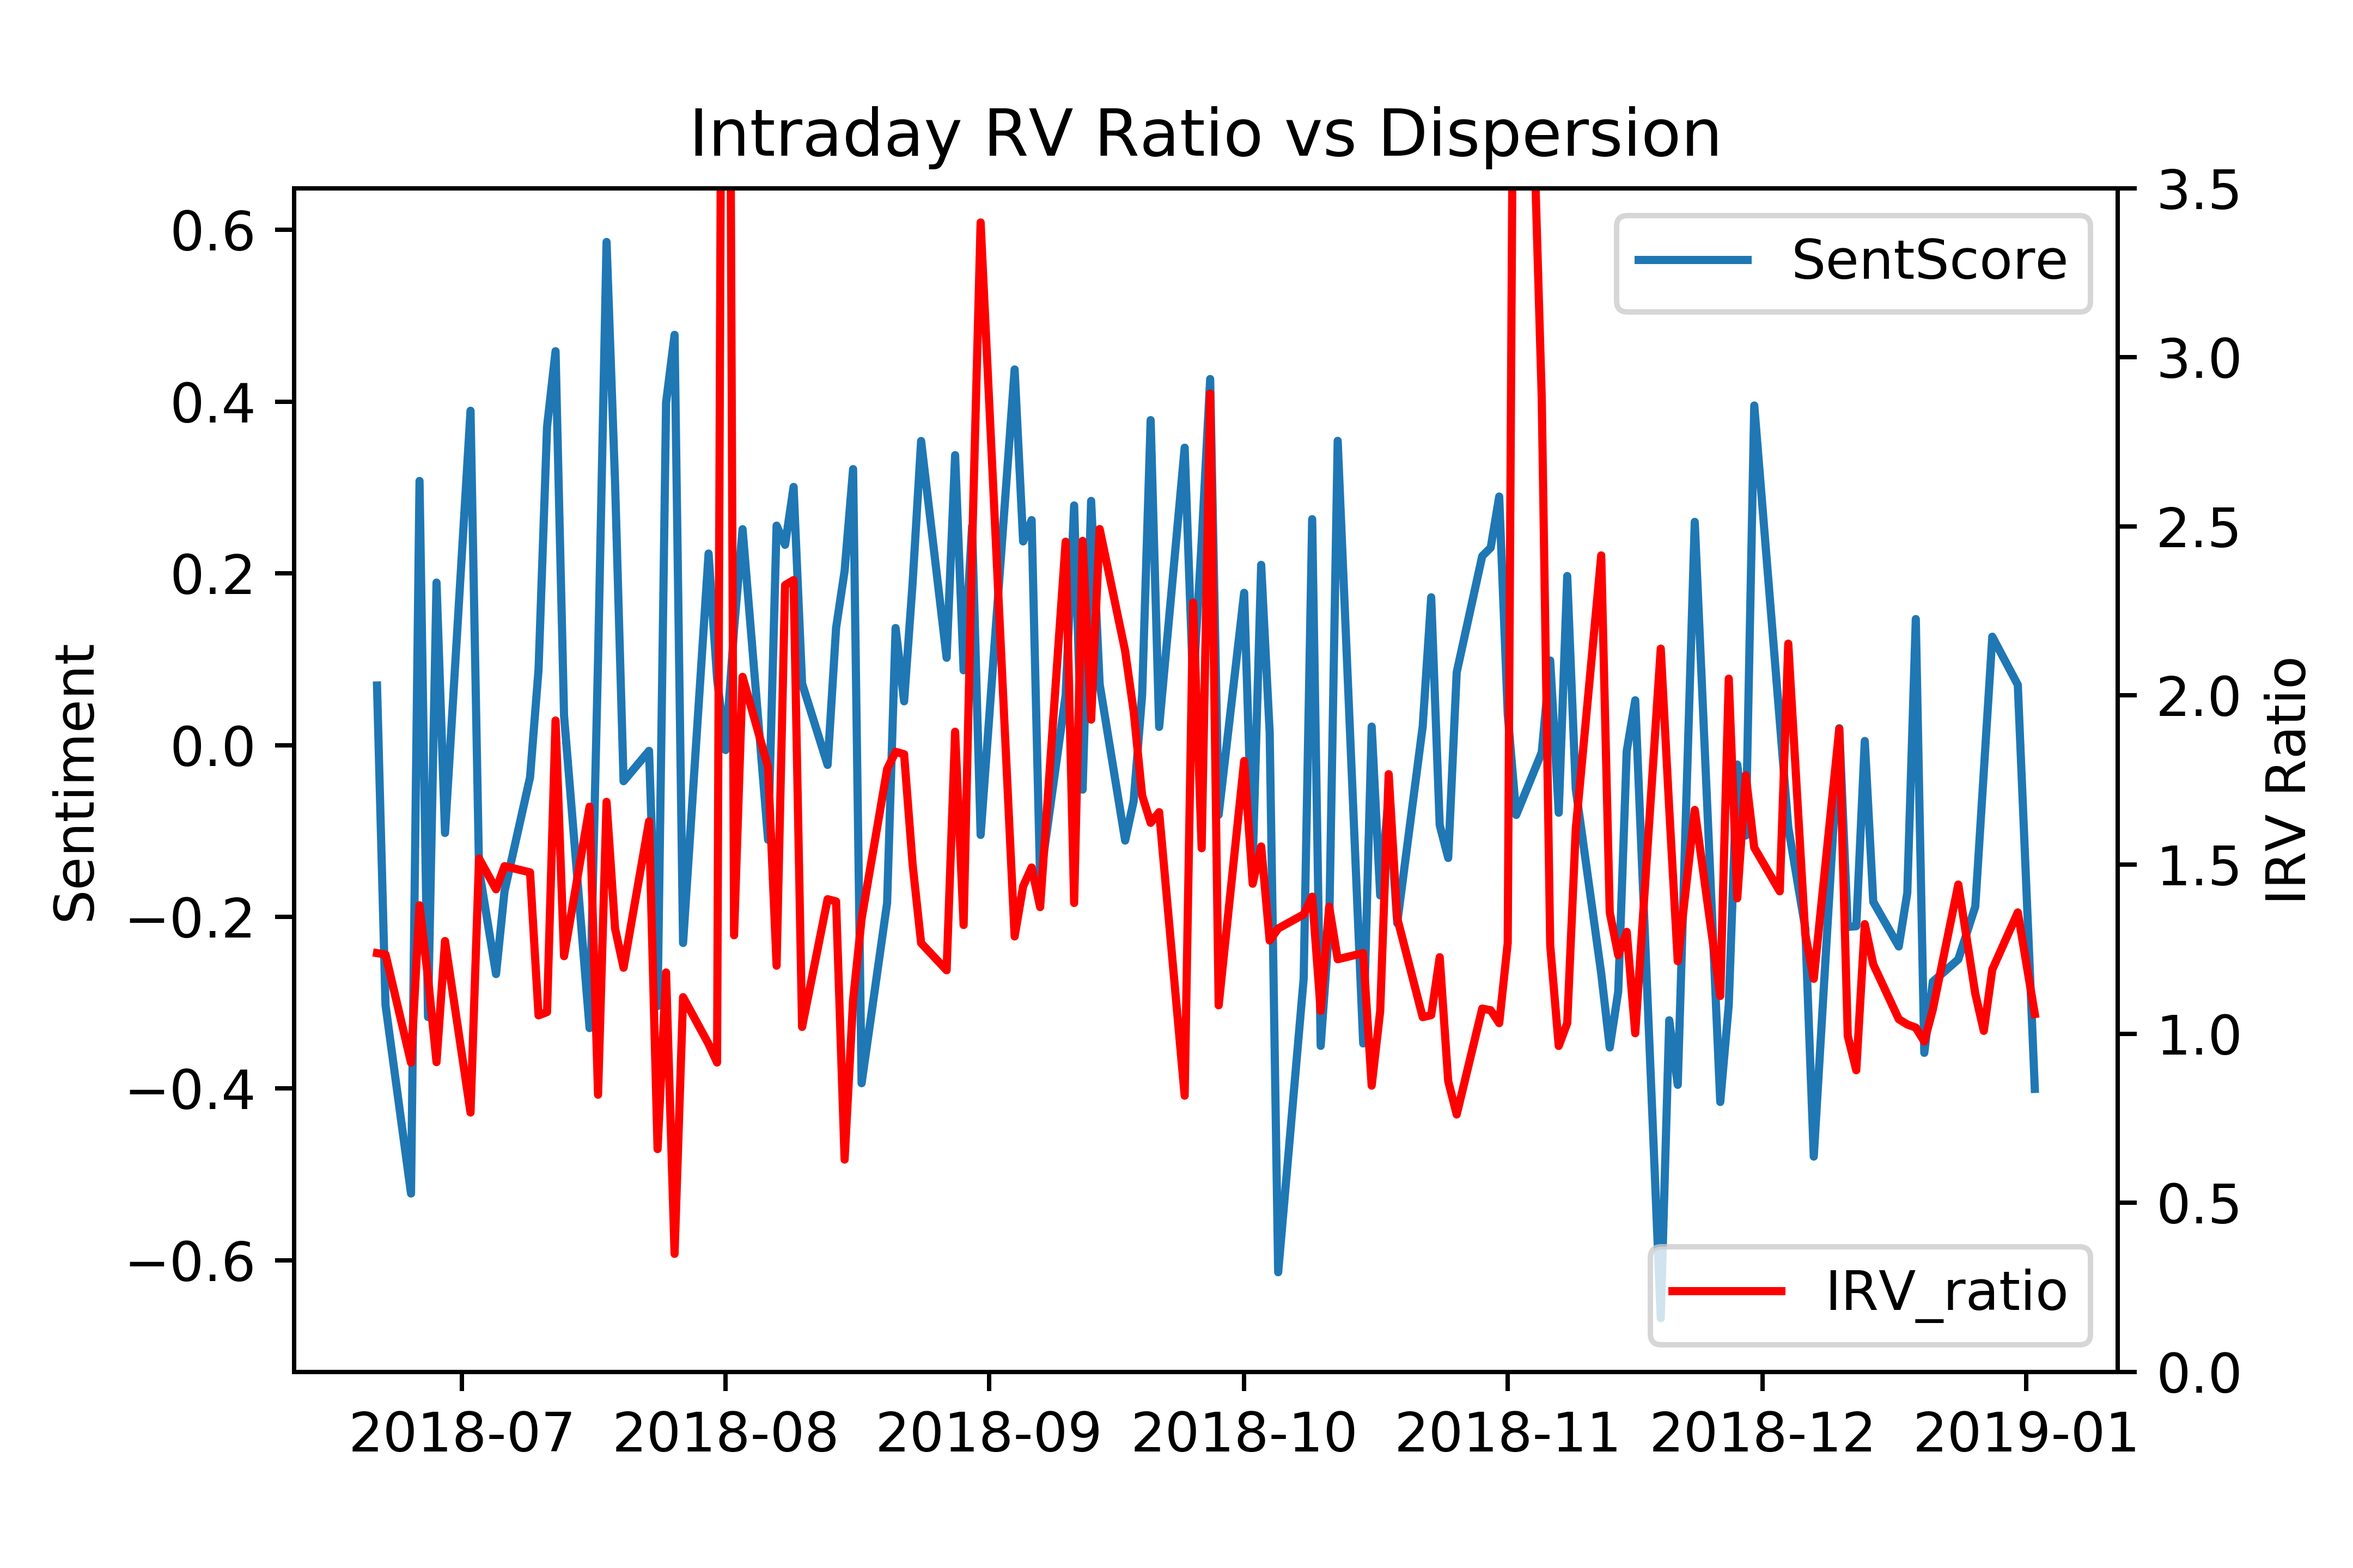
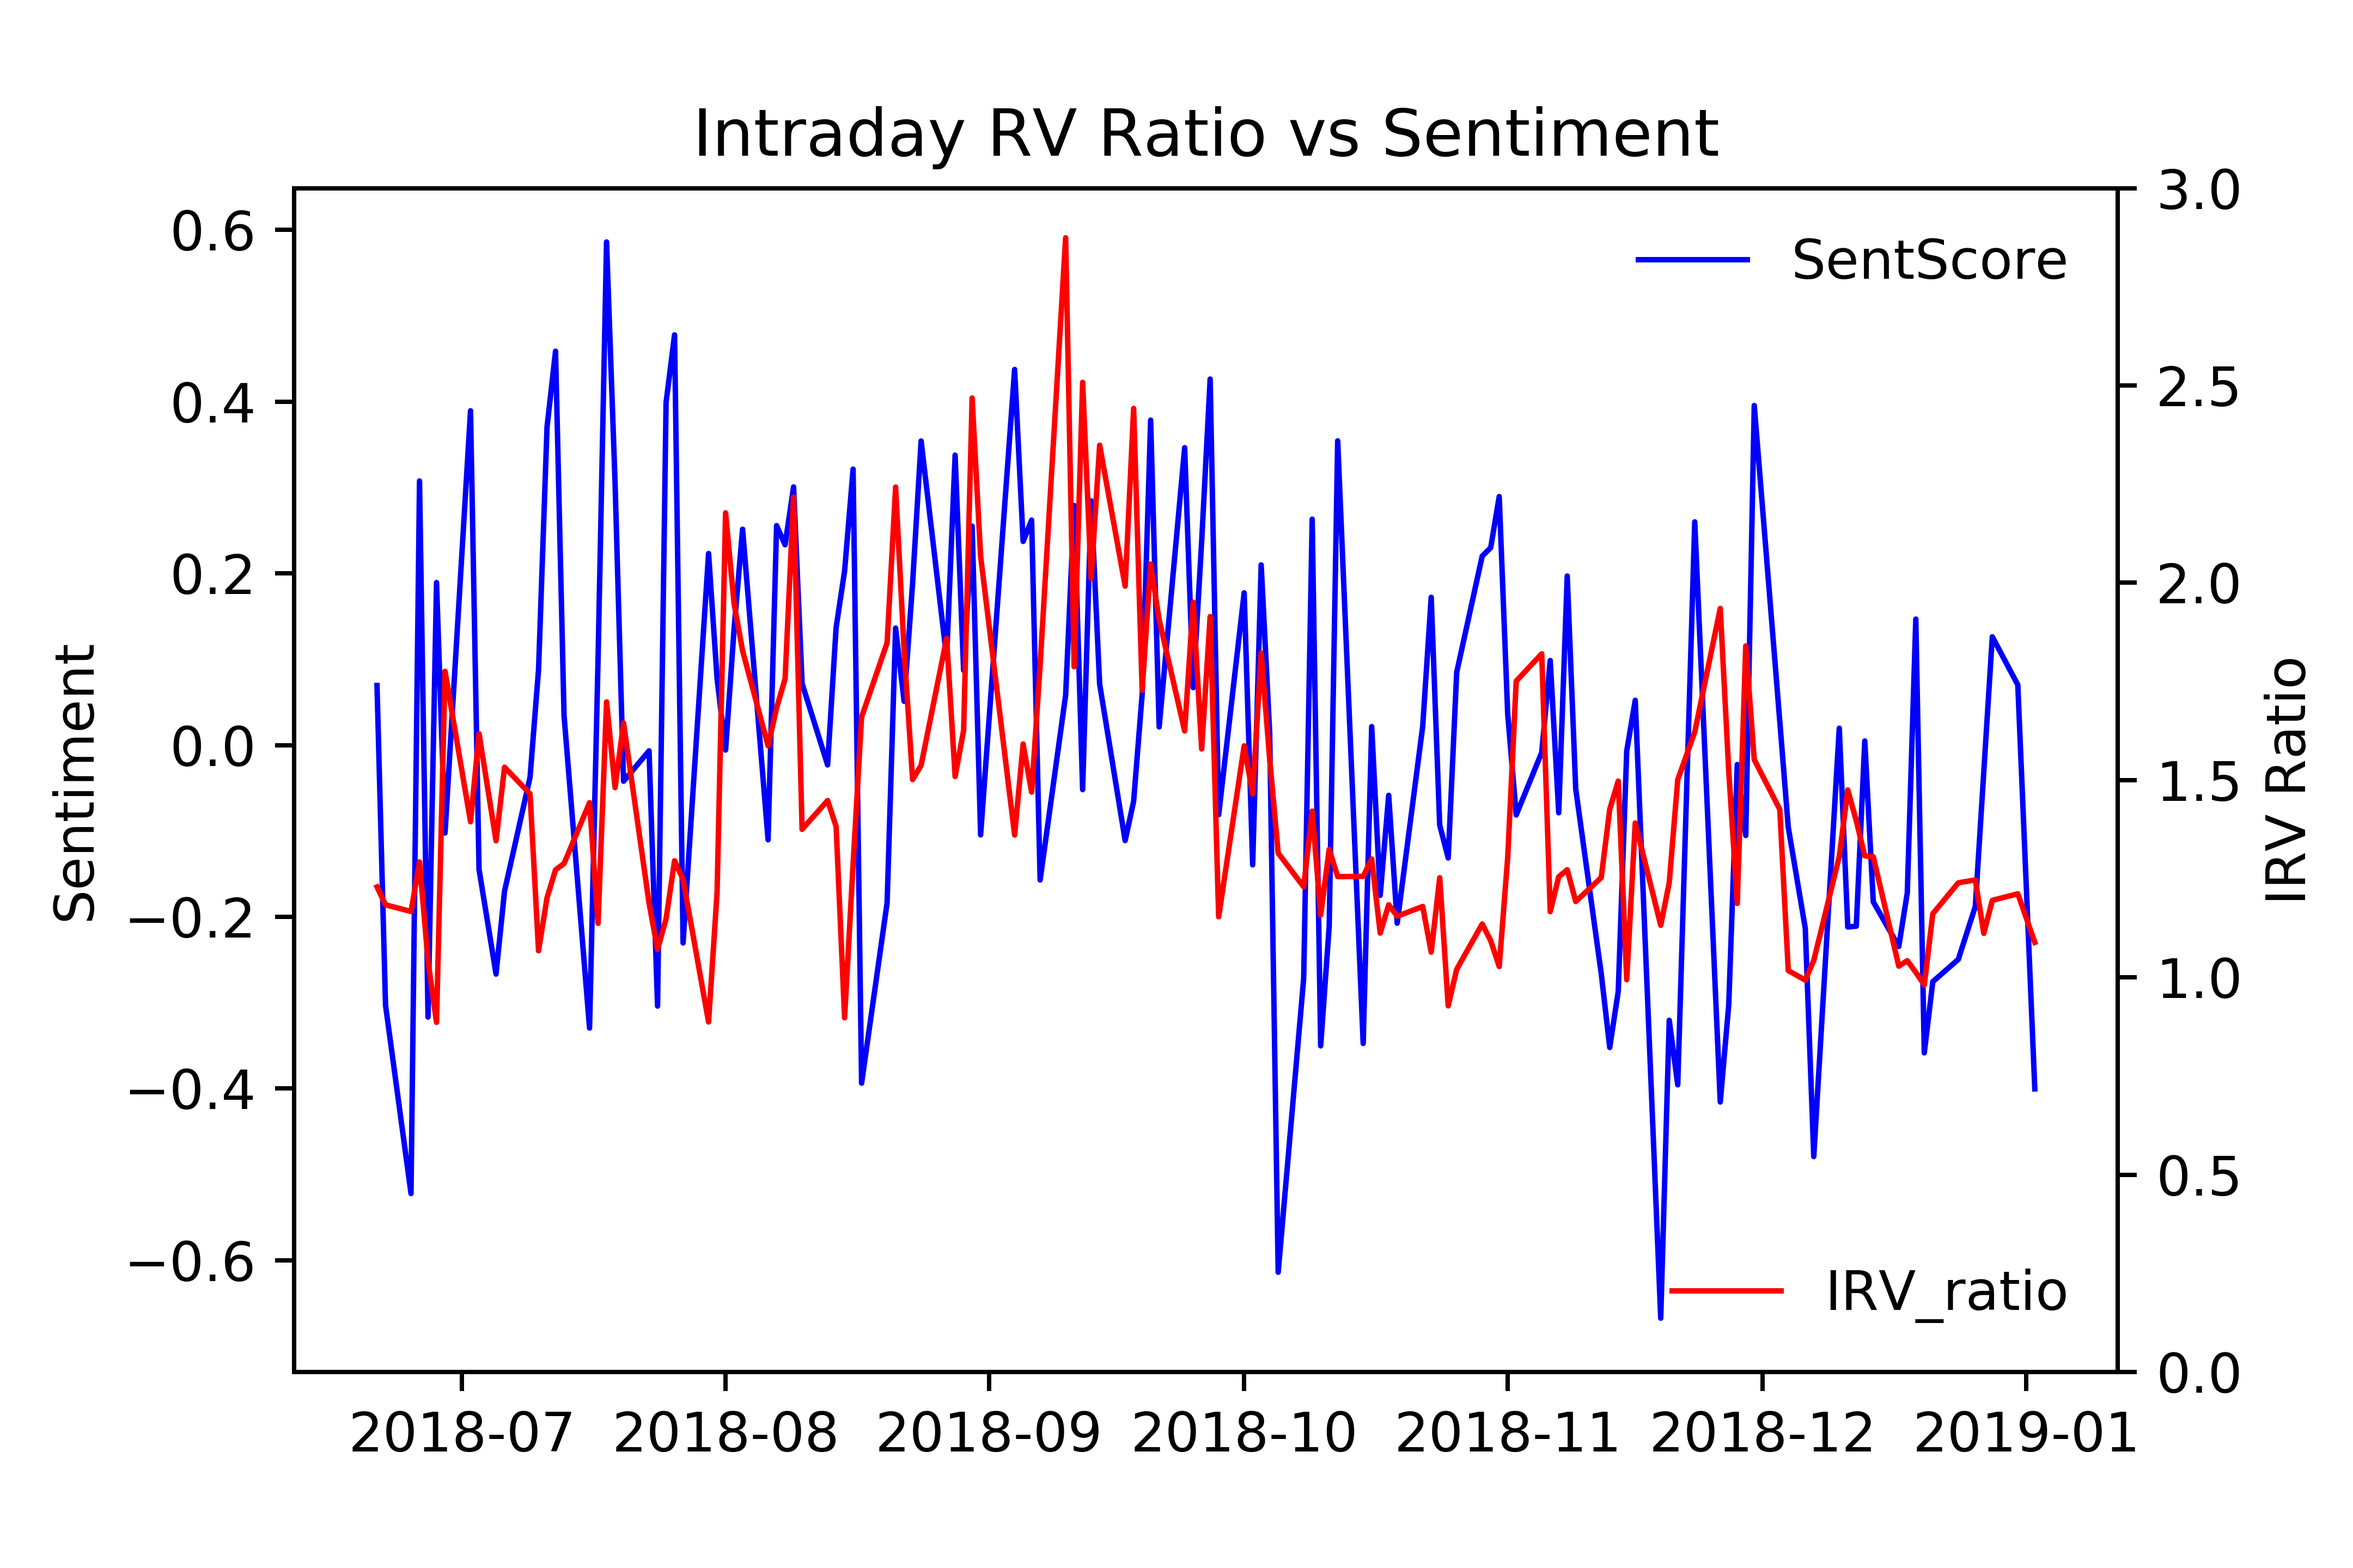
Add files via upload

diff --git a/Sentiment Analysis and Realised Volatility Analysis.py b/Sentiment Analysis and Realised Volatility Analysis.py
@@ -252,10 +252,10 @@ NDX_agg = pd.concat([NDX_agg, pd.DataFrame(columns = ['IntradayRV']),pd.DataFram
 for i in range(len(NDX_agg)):
    temp_RV=0
    temp_num=0
-   for j in range(len(NDX)):
-       if NDX_agg.Date[i]==NDX.Date[j]:
-           temp_RV=temp_RV+NDX.log_r[j]
-           temp_num=temp_num+1
+   for j in range(1,len(NDX)):
+       if NDX_agg.Date[i]==NDX.Date[j] and NDX.Date[j]==NDX.Date[j-1]:
+               temp_RV=temp_RV+NDX.log_r[j]
+               temp_num=temp_num+1
    NDX_agg.IntradayRV[i]= np.sqrt(temp_RV/temp_num * 87 * 252) 
    NDX_agg.Frequency[i]=temp_num  
 
@@ -269,8 +269,8 @@ AAPL_agg = pd.concat([NDX_agg, pd.DataFrame(columns = ['IntradayRV']),pd.DataFra
 for i in range(len(AAPL_agg)):
    temp_RV=0
    temp_num=0
-   for j in range(len(AAPL)):
-       if AAPL_agg.Date[i]==AAPL.Date[j]:
+   for j in range(1,len(AAPL)):
+       if AAPL_agg.Date[i]==AAPL.Date[j] and AAPL.Date[j]==AAPL.Date[j-1]:
            temp_RV=temp_RV+AAPL.log_r[j]
            temp_num=temp_num+1
    AAPL_agg.IntradayRV[i]= np.sqrt(temp_RV/temp_num * 87 * 252) 
@@ -328,15 +328,17 @@ final_df=pd.merge(fdf,Comb_agg, on='Date')
 
 
 #plot the sensitivity (averaged per day)
+fig = plt.figure()
 plt.plot(df_agg.Date,df_agg.SentScore, 'o-',linewidth=1,markersize=2)
 
 plt.title('Sentiment')
-plt.xlabel('Time')
+#plt.xlabel('Time')
 plt.ylabel('Sentiment')
-plt.gcf().autofmt_xdate()
+#plt.gcf().autofmt_xdate()
 plt.savefig('Sentiment_Apple.png',dpi = 720,transparent=True)
 
 #plot the dispersion and the quantile 
+fig = plt.figure()
 plt.plot(df_agg.Date,df_agg.Dispersion, 'o-',linewidth=0, markersize=2)
 disp_mean = df_agg.Dispersion.mean()
 disp_q10 = df_agg.Dispersion.quantile(q=0.1)
@@ -349,17 +351,20 @@ plt.title('Dispersion')
 plt.savefig('Sentiment_Dispersion_Apple.png',dpi = 720,transparent=True)
 
 #plot the Apple and NDX IRV 
-plt.plot(NDX_agg.Date,NDX_agg.NDX_IntradayRV, 'o-',linewidth=1, markersize=2)
-plt.plot(AAPL_agg.Date,AAPL_agg.AAPL_IntradayRV, 'o-',linewidth=1, markersize=2)
+fig = plt.figure()
+plt.plot(NDX_agg.Date,NDX_agg.NDX_IntradayRV, 'b',linewidth=1, markersize=2)
+plt.plot(AAPL_agg.Date,AAPL_agg.AAPL_IntradayRV, 'r',linewidth=1, markersize=2)
 
 plt.title('Annualized 5min Intervall Intraday Realised Volatility')
-plt.xlabel('Time')
+#plt.xlabel('Time')
 plt.ylabel('Realised Intraday Volatility (%)')
-plt.gcf().autofmt_xdate()
+#plt.gcf().autofmt_xdate()
+plt.legend(loc='best',frameon=False)
 plt.savefig('RealisedIntradayVol.png',dpi = 720,transparent=True)
-plt.legend(loc='best', )
+
 
 # plot IRV ratio
+fig = plt.figure()
 plt.plot(Comb_agg.Date,Comb_agg.IRV_ratio, 'o-',linewidth=1, markersize=2)
 
 IRVratio_mean = Comb_agg.IRV_ratio.mean()
@@ -371,11 +376,12 @@ plt.axhline(y=IRVratio_q10, xmin=0, xmax=1, linewidth=1, color = 'r')
 plt.axhline(y=IRVratio_q90, xmin=0, xmax=1, linewidth=1, color = 'r')
 
 plt.title('Ratio of Intraday Realised Volatility')
-plt.xlabel('Time')
+#plt.xlabel('Time')
 plt.ylabel('Intraday Realised Volatility Ratio')
-plt.gcf().autofmt_xdate()
+#plt.gcf().autofmt_xdate()
+plt.legend(loc='best',frameon=False )
 plt.savefig('RVRatio.png',dpi = 720,transparent=True)
-plt.legend(loc='best', )
+
 
 
 
@@ -383,16 +389,16 @@ plt.legend(loc='best', )
 fig = plt.figure()
 
 ax1 = fig.add_subplot(111)
-ax1.plot(final_df.Date, final_df.Dispersion)
+ax1.plot(final_df.Date, final_df.Dispersion,'b',linewidth=1, markersize=2)
 ax1.set_ylabel('Dispersion')
 ax1.set_title("Intraday RV Ratio vs Dispersion")
-ax1.legend(loc=0)
+ax1.legend(loc=0,frameon=False)
 ax2 = ax1.twinx()  # this is the important function
-ax2.plot(final_df.Date, final_df.IRV_ratio, 'r')
-ax2.set_ylim([0, 4])
+ax2.plot(final_df.Date, final_df.IRV_ratio, 'r', linewidth=1, markersize=2)
+ax2.set_ylim([0, 3])
 ax2.set_ylabel('IRV Ratio')
 #ax2.set_xlabel('Date')
-ax2.legend(loc='lower right')
+ax2.legend(loc='lower right',frameon=False)
 plt.savefig('Intraday RV Ratio vs Dispersion.png',dpi = 720,transparent=True)
 plt.show()
 
@@ -400,16 +406,16 @@ plt.show()
 fig = plt.figure()
 
 ax1 = fig.add_subplot(111)
-ax1.plot(final_df.Date, final_df.SentScore)
+ax1.plot(final_df.Date, final_df.SentScore,'b',linewidth=1, markersize=2)
 ax1.set_ylabel('Sentiment')
-ax1.set_title("Intraday RV Ratio vs Dispersion")
-ax1.legend(loc=0)
+ax1.set_title("Intraday RV Ratio vs Sentiment")
+ax1.legend(loc=0,frameon=False)
 ax2 = ax1.twinx()  # this is the important function
-ax2.plot(final_df.Date, final_df.IRV_ratio, 'r')
-ax2.set_ylim([0, 3.5])
+ax2.plot(final_df.Date, final_df.IRV_ratio, 'r',linewidth=1, markersize=2)
+ax2.set_ylim([0, 3])
 ax2.set_ylabel('IRV Ratio')
 #ax2.set_xlabel('Date')
-ax2.legend(loc='lower right')
+ax2.legend(loc='lower right',frameon=False)
 plt.savefig('Intraday RV Ratio vs Sentiment.png',dpi = 720,transparent=True)
 plt.show()
 
@@ -419,16 +425,16 @@ plt.show()
 fig = plt.figure()
 
 ax1 = fig.add_subplot(111)
-ax1.plot(final_df.Date, final_df.SentScore)
+ax1.plot(final_df.Date, final_df.SentScore,'b',linewidth=1, markersize=2)
 ax1.set_ylabel('Sentiment')
 ax1.set_title("AAPL Intraday RV  vs Sentiment")
-ax1.legend(loc=0)
+ax1.legend(loc=0,frameon=False)
 ax2 = ax1.twinx()  # this is the important function
-ax2.plot(final_df.Date, final_df.AAPL_IntradayRV, 'r')
+ax2.plot(final_df.Date, final_df.AAPL_IntradayRV, 'r',linewidth=1, markersize=2)
 #ax2.set_ylim([0, 2])
 ax2.set_ylabel('IRV')
 #ax2.set_xlabel('Date')
-ax2.legend(loc='lower right')
+ax2.legend(loc='lower right',frameon=False)
 plt.savefig('AAPL Intraday RV vs Sentiment.png',dpi = 720,transparent=True)
 plt.show()
 
@@ -437,16 +443,16 @@ plt.show()
 fig = plt.figure()
 
 ax1 = fig.add_subplot(111)
-ax1.plot(final_df.Date, final_df.Dispersion)
+ax1.plot(final_df.Date, final_df.Dispersion,'b',linewidth=1, markersize=2)
 ax1.set_ylabel('Dispersion')
 ax1.set_title("AAPL Intraday RV vs Dispersion")
-ax1.legend(loc=0)
+ax1.legend(loc=0,frameon=False)
 ax2 = ax1.twinx()  # this is the important function
-ax2.plot(final_df.Date, final_df.AAPL_IntradayRV, 'r')
+ax2.plot(final_df.Date, final_df.AAPL_IntradayRV, 'r',linewidth=1, markersize=2)
 #ax2.set_ylim([0, 3])
 ax2.set_ylabel('IRV')
 #ax2.set_xlabel('Date')
-ax2.legend(loc='lower right')
+ax2.legend(loc='lower right',frameon=False)
 plt.savefig('AAPL Intraday RV vs Dispersion.png',dpi = 720,transparent=True)
 plt.show()
 
@@ -455,15 +461,23 @@ plt.show()
 fig = plt.figure()
 
 ax1 = fig.add_subplot(111)
-ax1.plot(final_df.Date, final_df.SentScore)
+ax1.plot(final_df.Date, final_df.SentScore,'b',linewidth=1, markersize=2)
 ax1.set_ylabel('Sentiment')
 ax1.set_title("NDX Intraday RV  vs Sentiment")
-ax1.legend(loc=0)
+ax1.legend(loc=0,frameon=False)
 ax2 = ax1.twinx()  # this is the important function
-ax2.plot(final_df.Date, final_df.NDX_IntradayRV, 'r')
+ax2.plot(final_df.Date, final_df.NDX_IntradayRV, 'r',linewidth=1, markersize=2)
 #ax2.set_ylim([0, 2])
 ax2.set_ylabel('IRV')
 #ax2.set_xlabel('Date')
-ax2.legend(loc='lower right')
+ax2.legend(loc='lower right',frameon=False)
 plt.savefig('NDX Intraday RV vs Sentiment.png',dpi = 720,transparent=True)
 plt.show()
+
+
+##############################################
+# part V: Check the results
+##############################################
+print(df_agg.ix[df_agg.SentScore>0.9],df_agg.ix[df_agg.SentScore<-0.9])
+
+
